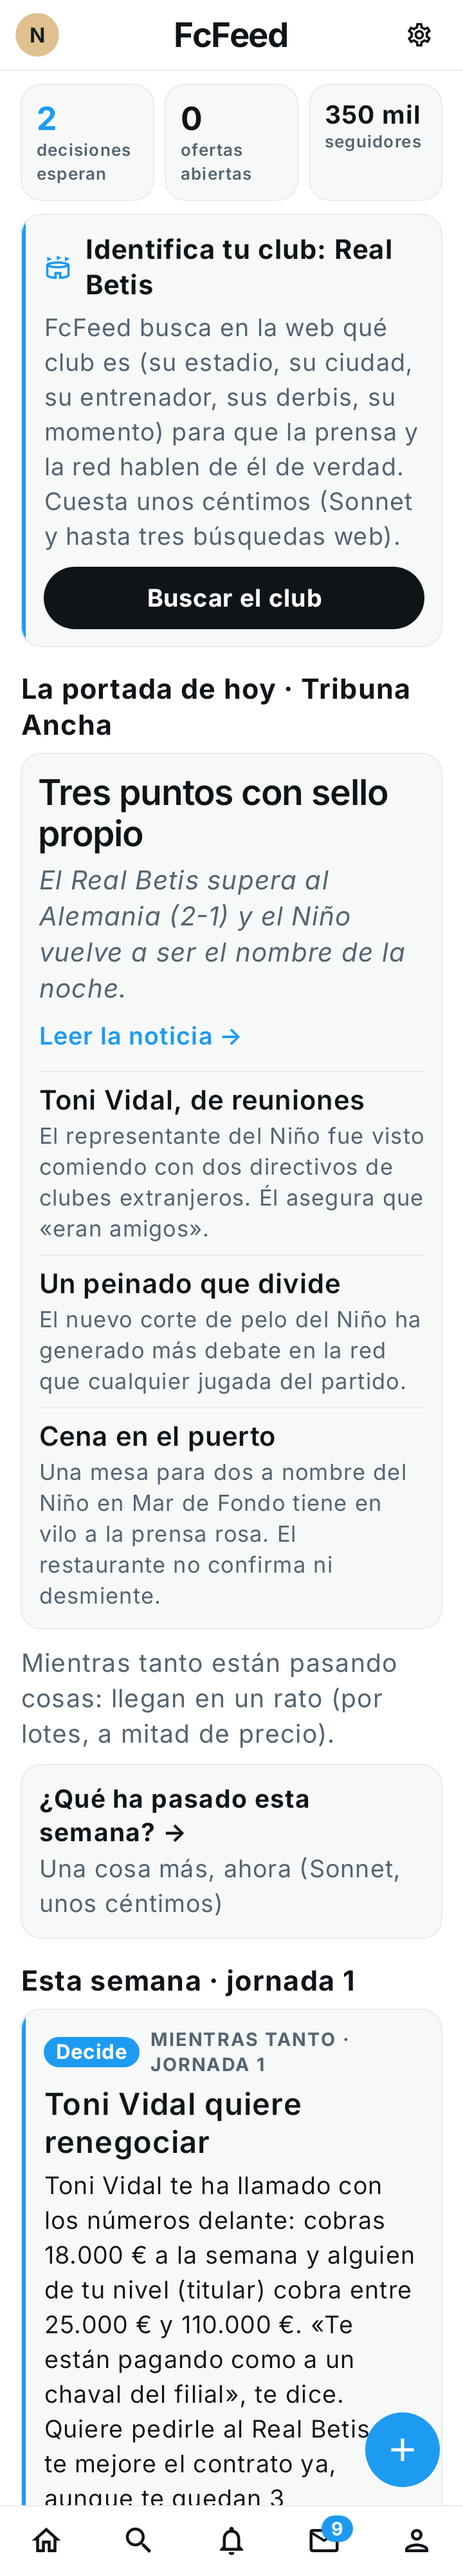
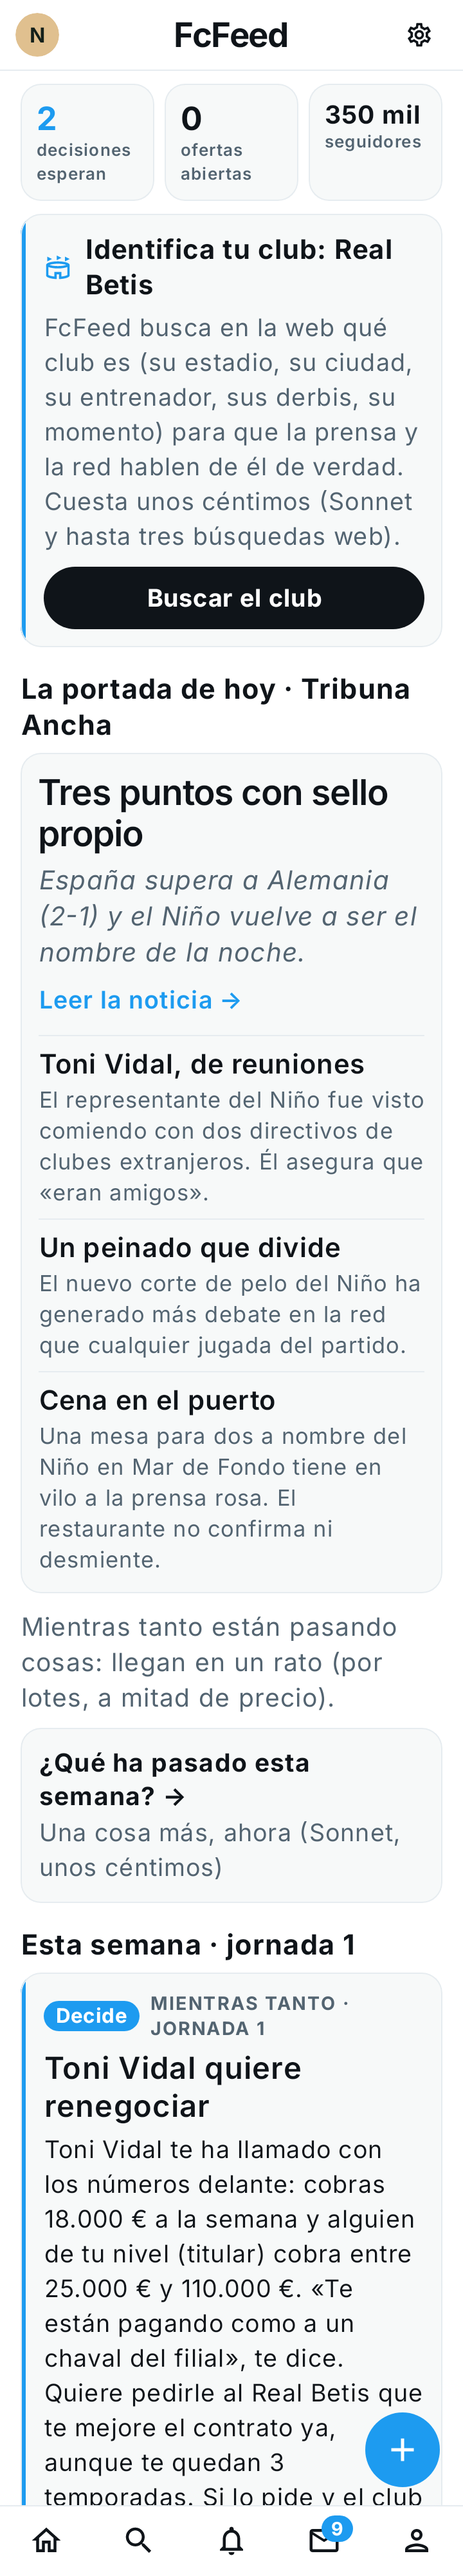
FcFeed 0.9.0: pujas entre empresas, solas entre jornadas
Con dos o más ofertas abiertas del mismo tipo, entre jornadas la que va
por detrás mejora, se mantiene o se retira (hasta 3 rondas, sin pasar
del tope del nivel). Sale como «Puja» en Inicio y en Ofertas la nueva
sustituye a la vieja. Sin IA. Modo prueba: sin artículo con selecciones.

Claude-Session: https://claude.ai/code/session_01Q4uywen3nuzUg5CTwJaCY5

Changed region(s): [[0.0306, 0.3125, 0.9167, 0.9688], [0.7639, 0.9375, 0.7944, 0.9688]]

diff --git a/shai/src/main/java/com/gonzalo/shai/Pujas.kt b/shai/src/main/java/com/gonzalo/shai/Pujas.kt
@@ -1,0 +1,97 @@
+package com.gonzalo.shai
+
+import kotlin.random.Random
+
+/**
+ * Las pujas (solas, sin botón): entre jornadas, si tienes abiertas dos o más ofertas del mismo tipo (dos marcas que te quieren de imagen,
+ * dos clubes que te quieren fichar), la que va por detrás mueve ficha: mejora la suya (más sueldo, más prima o un año más), se mantiene
+ * o se retira. Tú solo eliges. Como mucho [MAX_RONDAS] rondas por oferta y nunca por encima de lo que pide tu nivel ([Rangos]). Sin IA:
+ * no cuesta nada y sale también en el modo prueba.
+ */
+object Pujas {
+    const val MAX_RONDAS = 3
+    private val TIPOS = setOf("patrocinio", "traspaso", "cesion")
+
+    /** Las que compiten: abiertas, de un tipo que puja, agrupadas por tipo, con al menos dos de quien las hace distinto. */
+    fun grupos(entradas: List<Entrada>): List<List<Pair<Entrada, Oferta>>> {
+        val ocultas = entradas.flatMap { it.ofertas }.mapNotNull { it.antes.ifBlank { null } }.toSet()
+        return entradas.flatMap { e -> e.ofertas.map { e to it } }
+            .filter { (_, o) -> o.estado == Oferta.ABIERTA && o.tipo in TIPOS && o.id !in ocultas }
+            .groupBy { it.second.tipo }.values
+            .map { g -> g.distinctBy { Rangos.limpiaNombre(it.second.de).lowercase() } }
+            .filter { it.size >= 2 }
+    }
+
+    /**
+     * La puja de esta jornada (o null si no hay o nadie se mueve): una entrada «Puja» que sale entre jornadas ([visible]) con la oferta
+     * nueva de quien mejora o la retirada de quien se va. Las de antes cambian al salir ([aplica]).
+     */
+    fun calcula(u: Universo, entradas: List<Entrada>, ahora: Long, visible: Long, azar: Random = Random(u.id.hashCode() * 31 + u.paso)): Entrada? {
+        val g = grupos(entradas).firstOrNull() ?: return null
+        val ofertas = g.map { it.second }.sortedByDescending { it.valor }
+        val lider = ofertas.first()
+        val r = Rangos.de(u.nivelActual)
+        val topeSemana = if (lider.tipo == "patrocinio") r.patroSemana else r.sueldo.last
+        val topePrima = if (lider.tipo == "patrocinio") r.patroPrima else r.primaMax
+        // Se mueve la que va por detrás (la segunda); si ya ha pujado todas sus rondas, nadie
+        val otra = ofertas.drop(1).firstOrNull { it.ronda < MAX_RONDAS } ?: return null
+        val quien = Rangos.limpiaNombre(otra.de); val delLider = Rangos.limpiaNombre(lider.de)
+        val tiro = azar.nextDouble()
+        val enElTope = otra.salario >= topeSemana && otra.prima >= topePrima
+        return when {
+            // Se retira (más fácil cuanto más ha pujado ya o si ya no puede subir)
+            tiro < 0.18 + 0.12 * otra.ronda || enElTope -> {
+                val ret = otra.copy(id = Universo.nuevoId("o"), estado = Oferta.RETIRADA, antes = otra.id, ronda = otra.ronda + 1,
+                    texto = elige(azar, RETIRADAS).replace("{Q}", quien).replace("{L}", delLider))
+                Entrada(Universo.nuevoId("e"), u.id, TipoEntrada.PUJA, ahora, u.paso, "$quien se retira de la puja",
+                    "$quien no sigue: ${ret.texto} $delLider se queda sola y lo sabe.", ofertas = listOf(ret), visibleDesde = visible, aplicada = false)
+            }
+            // Se mantiene (esta jornada, nada)
+            tiro < 0.38 + 0.08 * otra.ronda -> null
+            // Mejora: pasa al líder (o se acerca), con sueldo, prima o años
+            else -> {
+                val sube = 1.06 + azar.nextDouble() * 0.16
+                val semana = redondea(maxOf(otra.salario.toDouble(), lider.salario * sube)).coerceAtMost(topeSemana)
+                val prima = redondea(maxOf(otra.prima.toDouble(), lider.prima * (1.0 + azar.nextDouble() * 0.2))).coerceAtMost(topePrima)
+                val anios = if (azar.nextDouble() < 0.25 && otra.anios in 1..4) otra.anios + 1 else otra.anios
+                if (semana <= otra.salario && prima <= otra.prima && anios == otra.anios) return null
+                val cambios = buildList {
+                    if (semana > otra.salario) add("${Formato.euros(semana)} a la semana")
+                    if (prima > otra.prima) add("${Formato.euros(prima)} de prima")
+                    if (anios > otra.anios) add("un año más")
+                }
+                val nueva = otra.copy(id = Universo.nuevoId("o"), salario = semana, prima = prima, anios = anios, antes = otra.id, ronda = otra.ronda + 1, estado = Oferta.ABIERTA,
+                    texto = "Mejora su oferta tras saber lo de $delLider: ${cambios.joinToString(", ").replaceFirstChar { it.lowercase() }}. " + elige(azar, FRASES).replace("{Q}", quien))
+                val titulo = elige(azar, TITULOS).replace("{Q}", quien).replace("{L}", delLider)
+                Entrada(Universo.nuevoId("e"), u.id, TipoEntrada.PUJA, ahora, u.paso, titulo,
+                    "Al enterarse de la oferta de $delLider, $quien ha mejorado la suya sin que nadie se lo pida: ${cambios.joinToString(", ")}. " +
+                        (if (nueva.valor > lider.valor) "Ahora es la mejor sobre la mesa." else "Aún no llega a la de $delLider, pero se acerca."),
+                    ofertas = listOf(nueva), visibleDesde = visible, aplicada = false)
+            }
+        }
+    }
+
+    /** Al salir la puja: la oferta de antes queda superada (la nueva ocupa su sitio) o retirada. Si ya la habías contestado, la puja no cuenta. */
+    fun aplica(e: Entrada, todas: List<Entrada>): Pair<Entrada, Entrada?>? {
+        if (e.tipo != TipoEntrada.PUJA) return null
+        val o = e.ofertas.firstOrNull { it.antes.isNotBlank() } ?: return null
+        val vieja = todas.firstOrNull { x -> x.ofertas.any { it.id == o.antes } } ?: return null
+        val antes = vieja.ofertas.first { it.id == o.antes }
+        if (antes.estado != Oferta.ABIERTA) return e.copy(ofertas = e.ofertas.map { if (it.estado == Oferta.ABIERTA) it.copy(estado = Oferta.MEJORADA) else it }) to null
+        return e to vieja.copy(ofertas = vieja.ofertas.map { if (it.id == o.antes) it.copy(estado = Oferta.MEJORADA) else it })
+    }
+
+    private fun redondea(x: Double): Long = when {
+        x >= 1_000_000 -> Math.round(x / 50_000) * 50_000
+        x >= 100_000 -> Math.round(x / 5_000) * 5_000
+        x >= 10_000 -> Math.round(x / 500) * 500
+        else -> Math.round(x / 100) * 100
+    }
+    private fun elige(azar: Random, l: List<String>) = l[azar.nextInt(l.size)]
+
+    private val TITULOS = listOf("{Q} contraataca", "{Q} sube la apuesta", "{Q} no se rinde", "Puja: {Q} responde a {L}", "{Q} mueve ficha")
+    private val FRASES = listOf("«No vamos a perderle por dinero», dicen en {Q}.", "En {Q} lo tienen claro: le quieren a él.",
+        "«Es nuestra prioridad», repiten en {Q}.", "En {Q} saben que hay otra puja y no quieren quedarse atrás.", "«Que lo piense, pero que no tarde», avisan desde {Q}.")
+    private val RETIRADAS = listOf("«No vamos a entrar en una guerra», dicen en {Q}.", "En {Q} creen que el precio ya no tiene sentido.",
+        "«Le deseamos lo mejor, pero hasta aquí», explica {Q}.", "{Q} ha encontrado otra opción y retira su oferta.")
+}

diff --git a/shai/src/main/java/com/gonzalo/shai/PantCarrera.kt b/shai/src/main/java/com/gonzalo/shai/PantCarrera.kt
@@ -274,6 +274,7 @@ private fun TabInicio(u: Universo, entradas: List<Entrada>, convs: List<Conversa
     val antes = entradas.filter { it.paso != u.paso && it.tipo != TipoEntrada.CHARLA }
     fun abre(e: Entrada): () -> Unit = {
         when {
+            e.tipo == TipoEntrada.PUJA -> alPestana(2)
             e.decision?.abierta == true -> alChat(chatDe(u, e.decision))
             e.dms.isNotEmpty() -> alChat(Gente.chatDe(u, e.dms.first()))
             e.posts.isNotEmpty() -> alPestana(0)
@@ -340,6 +341,7 @@ fun TarjetaEntrada(u: Universo, e: Entrada, expandida: Boolean = true, alRed: ()
         // A dónde ir desde aquí
         val enlaces = buildList {
             if (decide) add("Responder →" to alResponder)
+            if (e.tipo == TipoEntrada.PUJA) add("Ver las ofertas →" to alResponder)
             if (e.posts.isNotEmpty()) add("${e.posts.size} en la red →" to alRed)
             if (e.dms.isNotEmpty() && !decide) { val c = Gente.chatDe(u, e.dms.first()); add("${e.dms.size} mensaje${if (e.dms.size > 1) "s" else ""} →" to { alChat(c) }) }
         }
@@ -648,6 +650,7 @@ private fun TarjetaDecision(e: Entrada, d: Decision) {
 
 // ---------------------------------------------------------------- Ofertas
 
+@OptIn(androidx.compose.foundation.layout.ExperimentalLayoutApi::class)
 @Composable
 private fun TabOfertas(u: Universo, entradas: List<Entrada>) {
     val ambito = rememberCoroutineScope()
@@ -661,7 +664,10 @@ private fun TabOfertas(u: Universo, entradas: List<Entrada>) {
         }
     } ?: Tarjeta(bordeIzq = Acento) { TituloTarjeta("Eres agente libre"); TextoTarjeta("Cualquier club puede ficharte.", Modifier.padding(top = 2.dp)) }
     Nota("La app manda: si aceptas aquí, hazlo también en tu partida de FC.", Modifier.padding(top = 10.dp, bottom = 4.dp))
-    val todas = entradas.flatMap { e -> e.ofertas.map { e to it } }.filter { it.second.estado != Oferta.NEGOCIADA }
+    // (las superadas en una puja no salen: sale la nueva; tampoco las que ya tienen una nueva visible aunque la puja no se haya aplicado aún)
+    val superadas = entradas.flatMap { it.ofertas }.mapNotNull { it.antes.ifBlank { null } }.toSet()
+    val todas = entradas.flatMap { e -> e.ofertas.map { e to it } }.filter { it.second.estado != Oferta.NEGOCIADA && it.second.estado != Oferta.MEJORADA && it.second.id !in superadas }
+    val enPuja = Pujas.grupos(entradas).flatten().map { it.second.id }.toSet()
     if (todas.isEmpty()) { Nota("Ninguna oferta todavía. Ya llegarán.", Modifier.padding(top = 8.dp)); return }
     val abiertas = todas.filter { it.second.estado == Oferta.ABIERTA }
     val viejas = todas.filter { it.second.estado != Oferta.ABIERTA }
@@ -672,7 +678,10 @@ private fun TabOfertas(u: Universo, entradas: List<Entrada>) {
             Row(verticalAlignment = Alignment.CenterVertically) {
                 Avatar(Rangos.limpiaNombre(o.de), 46.dp); Spacer(Modifier.width(12.dp))
                 Column(Modifier.weight(1f)) {
-                    Sello(Oferta.TIPOS[o.tipo] ?: o.tipo)
+                    androidx.compose.foundation.layout.FlowRow(horizontalArrangement = Arrangement.spacedBy(6.dp), verticalArrangement = Arrangement.spacedBy(4.dp)) {
+                        Sello(Oferta.TIPOS[o.tipo] ?: o.tipo)
+                        if (o.id in enPuja) Sello(if (o.ronda > 0) "En puja · mejorada ${o.ronda}" else "En puja", Dorado)
+                    }
                     Text(Rangos.limpiaNombre(o.de), color = Charcoal, fontFamily = Display, fontWeight = FontWeight.SemiBold, fontSize = 22.sp, lineHeight = 26.sp, modifier = Modifier.padding(top = 4.dp))
                 }
             }
@@ -712,7 +721,7 @@ private fun TabOfertas(u: Universo, entradas: List<Entrada>) {
                 Text(Rangos.limpiaNombre(o.de), color = Charcoal, fontFamily = Body, fontWeight = FontWeight.Bold, fontSize = 15.sp, lineHeight = 19.sp)
                 Text(listOfNotNull(Oferta.TIPOS[o.tipo] ?: o.tipo, o.salario.takeIf { it > 0 }?.let { "${Formato.eurosCorto(it)}/semana" }).joinToString(" · "), color = Muted, fontFamily = Body, fontSize = 12.sp, lineHeight = 16.sp)
             }
-            Sello(if (o.estado == Oferta.ACEPTADA) "Aceptada" else "Rechazada", if (o.estado == Oferta.ACEPTADA) Acento else Muted)
+            Sello(when (o.estado) { Oferta.ACEPTADA -> "Aceptada"; Oferta.RETIRADA -> "Se retiró"; else -> "Rechazada" }, if (o.estado == Oferta.ACEPTADA) Acento else Muted)
         }
         Filete(1.dp, Line)
     }

diff --git a/shai/src/test/java/com/gonzalo/shai/PujasTest.kt b/shai/src/test/java/com/gonzalo/shai/PujasTest.kt
@@ -1,0 +1,60 @@
+package com.gonzalo.shai
+
+import org.junit.Assert.*
+import org.junit.Test
+import kotlin.random.Random
+
+/** Las pujas solas entre ofertas que compiten: mejoran, se retiran, no pasan del tope del nivel ni de tres rondas. */
+class PujasTest {
+    private val u = Ejemplo.universo().let { it.copy(fuera = it.fuera + (Fuera.FAMA to 45)) }   // titular
+    private val nova = Oferta("o1", "Nova Sport", "patrocinio", 20_000, 500_000, 3, "Nova quiere tu imagen.")
+    private val aurum = Oferta("o2", "Aurum Mobile", "patrocinio", 15_000, 300_000, 2, "Aurum también.")
+    private val e1 = Entrada("e1", u.id, TipoEntrada.EVENTO, 1, 1, ofertas = listOf(nova))
+    private val e2 = Entrada("e2", u.id, TipoEntrada.EVENTO, 2, 1, ofertas = listOf(aurum, Oferta("o3", "Villarreal CF", "traspaso", 40_000, 0, 4, "")))
+
+    private fun busca(f: (Entrada?) -> Boolean): Entrada? {
+        for (s in 0 until 500) { val r = Pujas.calcula(u, listOf(e1, e2), 10, 20, Random(s)); if (f(r)) return r }
+        fail("ninguna semilla da ese caso"); return null
+    }
+
+    @Test fun soloPujanLasDelMismoTipo() {
+        val g = Pujas.grupos(listOf(e1, e2))
+        assertEquals(1, g.size); assertEquals(setOf("o1", "o2"), g.first().map { it.second.id }.toSet())
+    }
+
+    @Test fun laQueVaDetrasMejoraSinPasarDelTope() {
+        val p = busca { it?.ofertas?.firstOrNull()?.estado == Oferta.ABIERTA }!!
+        val n = p.ofertas.first()
+        assertEquals(TipoEntrada.PUJA, p.tipo); assertEquals("o2", n.antes); assertEquals(1, n.ronda); assertEquals("Aurum Mobile", n.de)
+        assertTrue(n.salario >= aurum.salario && n.salario <= Rangos.de(Nivel.TITULAR).patroSemana)
+        assertTrue(n.prima <= Rangos.de(Nivel.TITULAR).patroPrima)
+        assertFalse(p.aplicada); assertEquals(20, p.visibleDesde)
+        // Al salir, la de antes queda superada
+        val (pe, vieja) = Pujas.aplica(p, listOf(e1, e2, p))!!
+        assertEquals(Oferta.MEJORADA, vieja!!.ofertas.first { it.id == "o2" }.estado)
+        assertEquals(Oferta.ABIERTA, pe.ofertas.first().estado)
+        // Y a la siguiente, puja la otra (la que ahora va por detrás) o nadie
+        val ronda2 = Pujas.grupos(listOf(e1, vieja, pe))
+        assertEquals(setOf("o1", n.id), ronda2.first().map { it.second.id }.toSet())
+    }
+
+    @Test fun seRetiraYAlSalirDejaDeEstarSobreLaMesa() {
+        val p = busca { it?.ofertas?.firstOrNull()?.estado == Oferta.RETIRADA }!!
+        assertTrue(p.titulo.contains("se retira"))
+        val (_, vieja) = Pujas.aplica(p, listOf(e1, e2, p))!!
+        assertEquals(Oferta.MEJORADA, vieja!!.ofertas.first { it.id == "o2" }.estado)
+        assertTrue(Pujas.grupos(listOf(e1, vieja, p)).isEmpty())
+    }
+
+    @Test fun siYaLaContestasteLaPujaNoCuenta() {
+        val p = busca { it?.ofertas?.firstOrNull()?.estado == Oferta.ABIERTA }!!
+        val contestada = e2.copy(ofertas = e2.ofertas.map { if (it.id == "o2") it.copy(estado = Oferta.RECHAZADA) else it })
+        val (pe, vieja) = Pujas.aplica(p, listOf(e1, contestada, p))!!
+        assertNull(vieja); assertEquals(Oferta.MEJORADA, pe.ofertas.first().estado)
+    }
+
+    @Test fun conTresRondasYaNoPuja() {
+        val cansada = e2.copy(ofertas = listOf(aurum.copy(ronda = Pujas.MAX_RONDAS)))
+        for (s in 0 until 50) assertNull(Pujas.calcula(u, listOf(e1, cansada), 10, 20, Random(s)))
+    }
+}

diff --git a/shai/src/main/java/com/gonzalo/shai/Prueba.kt b/shai/src/main/java/com/gonzalo/shai/Prueba.kt
@@ -88,7 +88,7 @@ class TransporteDePrueba(private val azar: kotlin.random.Random = kotlin.random.
     private class Datos(
         val nombre: String, val apodo: String, val club: String, val rival: String, val marcador: String, val resultado: Char?, val goles: Int, val asistencias: Int,
         val nota: String, val competicion: String, val local: Boolean, val gente: List<Pair<String, String>>, val nivel: Int, val seguidores: Long, val megusta: Long,
-        val sueldo: Long, val pendientes: Int, val mister: Boolean,
+        val sueldo: Long, val pendientes: Int, val mister: Boolean, val seleccion: Boolean = false,
     ) { val alias: String get() = apodo.ifBlank { nombre.substringBefore(' ') } }
 
     private fun cifra(t: String, unidad: String): Long {
@@ -117,7 +117,7 @@ class TransporteDePrueba(private val azar: kotlin.random.Random = kotlin.random.
         val mg = Regex("""unos ([\d.,]+)( M| mil)? me gusta""").find(t)?.let { cifra(it.groupValues[1], it.groupValues[2]) } ?: maxOf(12, seg / 60)
         val sueldo = Regex("""([\d.]+) € a la semana""").find(t)?.groupValues?.get(1)?.replace(".", "")?.toLongOrNull() ?: 5_000
         val pend = Regex("""DECISIONES PENDIENTES: (\d+)""").find(t)?.groupValues?.get(1)?.toIntOrNull() ?: 0
-        return Datos(nombre, apodo, club, rival, marcador, res, goles, asist, nota, comp, "En casa contra" in partido, gente, nivel, seg, mg, sueldo, pend, "- Entrenador:" in t)
+        return Datos(nombre, apodo, club, rival, marcador, res, goles, asist, nota, comp, "En casa contra" in partido, gente, nivel, seg, mg, sueldo, pend, "- Entrenador:" in t, seleccion != null)
     }
 
     // ---------------------------------------------------------------- rellenar los huecos
@@ -408,7 +408,13 @@ class TransporteDePrueba(private val azar: kotlin.random.Random = kotlin.random.
         }
         u.guarda()
         // «de el Niño» → «del Niño», «a el Niño» → «al Niño» (los apodos con artículo)
-        val limpio = Json.escribe(r).replace(Regex("""(?<!\p{L})([Dd])e el(?!\p{L})"""), "$1el").replace(Regex("""(?<!\p{L})([Aa]) el(?!\p{L})"""), "$1l")
+        var limpio = Json.escribe(r).replace(Regex("""(?<!\p{L})([Dd])e el(?!\p{L})"""), "$1el").replace(Regex("""(?<!\p{L})([Aa]) el(?!\p{L})"""), "$1l")
+        // Con la selección, sin artículo: «España supera a Alemania», no «El España supera al Alemania»
+        if (d.seleccion) listOf(d.club, d.rival).filter { it.isNotBlank() }.forEach { n ->
+            val q = Regex.escape(n)
+            limpio = limpio.replace(Regex("""(?<!\p{L})El $q"""), n).replace(Regex("""(?<!\p{L})el $q"""), n)
+                .replace(Regex("""(?<!\p{L})([Aa])l $q"""), "$1 $n").replace(Regex("""(?<!\p{L})([Dd])el $q"""), "$1e $n")
+        }
         return Json.escribe(mapOf("id" to "msg_prueba", "type" to "message", "role" to "assistant", "model" to c["model"].comoTexto(),
             "content" to listOf(mapOf("type" to "text", "text" to limpio)), "stop_reason" to "end_turn",
             "usage" to mapOf("input_tokens" to 0, "output_tokens" to 0, "cache_creation_input_tokens" to 0, "cache_read_input_tokens" to 0)))

diff --git a/shai/src/main/java/com/gonzalo/shai/Modelo.kt b/shai/src/main/java/com/gonzalo/shai/Modelo.kt
@@ -452,14 +452,22 @@ data class Prensa(
  */
 data class Oferta(val id: String, val de: String, val tipo: String, val salario: Long, val prima: Long, val anios: Int, val texto: String, val estado: String = ABIERTA,
                   /** Ya se pidió más una vez (no se puede volver a pedir). */
-                  val negociada: Boolean = false) {
-    fun aMapa(): Map<String, Any?> = mapOf("id" to id, "d" to de, "t" to tipo, "s" to salario, "p" to prima, "a" to anios.toLong(), "x" to texto, "e" to estado, "ng" to negociada)
+                  val negociada: Boolean = false,
+                  /** En una puja ([Pujas]): la oferta que esta mejora (o de la que se retira), y en qué ronda va. */
+                  val antes: String = "", val ronda: Int = 0) {
+    fun aMapa(): Map<String, Any?> = mapOf("id" to id, "d" to de, "t" to tipo, "s" to salario, "p" to prima, "a" to anios.toLong(), "x" to texto, "e" to estado, "ng" to negociada,
+        "an" to antes, "ro" to ronda.toLong())
+    /** Lo que vale entera (para comparar en una puja): lo de todas las semanas de sus años y la prima. */
+    val valor: Long get() = salario * 52 * maxOf(1, anios) + prima
     val cambiaDeClub: Boolean get() = tipo == "traspaso" || tipo == "cesion" || tipo == "banquillo"
     companion object {
         const val ABIERTA = "abierta"; const val ACEPTADA = "aceptada"; const val RECHAZADA = "rechazada"
         val TIPOS = mapOf("traspaso" to "Traspaso", "cesion" to "Cesión", "renovacion" to "Renovación", "patrocinio" to "Patrocinio", "banquillo" to "Banquillo")
         const val NEGOCIADA = "negociada"
-        fun de(m: Map<String, Any?>) = Oferta(m["id"].comoTexto(), m["d"].comoTexto(), m["t"].comoTexto(), m["s"].comoLong(), m["p"].comoLong(), m["a"].comoLong().toInt(), m["x"].comoTexto(), m["e"].comoTexto().ifBlank { ABIERTA }, m["ng"].comoBool())
+        /** En una puja: la otra la ha mejorado (sale la nueva) o se ha retirado. */
+        const val MEJORADA = "mejorada"; const val RETIRADA = "retirada"
+        fun de(m: Map<String, Any?>) = Oferta(m["id"].comoTexto(), m["d"].comoTexto(), m["t"].comoTexto(), m["s"].comoLong(), m["p"].comoLong(), m["a"].comoLong().toInt(), m["x"].comoTexto(), m["e"].comoTexto().ifBlank { ABIERTA }, m["ng"].comoBool(),
+            m["an"].comoTexto(), m["ro"].comoLong().toInt())
     }
 }
 
@@ -512,7 +520,7 @@ data class Efectos(val dinero: Long = 0, val fuera: Map<String, Int> = emptyMap(
 enum class TipoEntrada(val nombre: String) {
     PARTIDO("Partido"), EVENTO("Mientras tanto"), RESPUESTA("Lo que pasó después"), OFICIAL("Oficial"), INICIO("El principio"),
     TEMPORADA("Fin de temporada"), SINCONTESTAR("No contestaste"), HITO("Hito"), RECORD("Récord histórico"), RIVAL("Rivalidad"),
-    CHARLA("Charla"), PUERTA("Fuera de tu vida"), GENTE("Gente nueva"), HISTORICO("Hecho histórico"),
+    CHARLA("Charla"), PUERTA("Fuera de tu vida"), GENTE("Gente nueva"), HISTORICO("Hecho histórico"), PUJA("Puja"),
 }
 
 /**

diff --git a/shai/src/main/java/com/gonzalo/shai/Motor.kt b/shai/src/main/java/com/gonzalo/shai/Motor.kt
@@ -133,12 +133,23 @@ object Motor {
         e = r.first
         // El contrato: si toca hablar de renovar, el club (o tu representante) mueve ficha
         runCatching { revisaContrato(universo) }
+        // Las pujas entre las ofertas que compiten (sin IA): salen entre jornadas
+        runCatching { puja(universo) }
         if (e.pendiente.isEmpty()) {
             runCatching { mandaEventos(Carreras.de(universo) ?: u) }
             if (u.paso % CADA_MEMORIA == 0) runCatching { recuerda(universo) }
         }
         e to r.second
     } }
+
+    /** La puja de esta jornada entre las ofertas que compiten ([Pujas]), si toca y no hay otra por salir. Sale entre jornadas. */
+    fun puja(universo: String): Entrada? {
+        val u = Carreras.de(universo) ?: return null
+        if (Carreras.entradasDe(universo, todas = true).any { it.tipo == TipoEntrada.PUJA && !it.aplicada }) return null
+        val ahora = reloj()
+        val e = Pujas.calcula(u, Carreras.entradasDe(universo, ahora = ahora), ahora, if (Prueba.activo) ahora else ahora + separacion / 2) ?: return null
+        return Carreras.guarda(e)
+    }
 
     /** Los rivales tras el partido: cambian con los choques y, si nace uno, sale como «Rivalidad» (la prensa y la red lo cuentan). */
     private fun rivales(u0: Universo): Universo {
@@ -387,7 +398,9 @@ object Motor {
         val salen = ArrayList<Entrada>()
         for (u0 in Carreras.todas().filter { universo == null || it.id == universo }) {
             var u = u0
-            Carreras.entradasDe(u.id, todas = true, ahora = ahora).filter { !it.aplicada && (forzar || it.visible(ahora)) }.sortedBy { it.visibleDesde }.forEach { e ->
+            Carreras.entradasDe(u.id, todas = true, ahora = ahora).filter { !it.aplicada && (forzar || it.visible(ahora)) }.sortedBy { it.visibleDesde }.forEach { e0 ->
+                // Una puja: la oferta de antes queda superada o retirada (si aún estaba abierta)
+                val e = Pujas.aplica(e0, Carreras.entradasDe(u.id, todas = true, ahora = ahora))?.let { (pe, vieja) -> vieja?.let { Carreras.guarda(it) }; pe } ?: e0
                 val ef = Vida.recorta(u, e.efectos)
                 u = Vida.aplica(u, e.efectos)
                 salen += Carreras.guarda(e.copy(aplicada = true, efectos = ef, visibleDesde = minOf(e.visibleDesde, ahora)))

diff --git a/shai/src/test/java/com/gonzalo/shai/CapturasHechoTest.kt b/shai/src/test/java/com/gonzalo/shai/CapturasHechoTest.kt
@@ -50,6 +50,7 @@ abstract class CapturasHechoBase {
                             3 -> PantCarrera(u0.id, {}, {}, {}, inicial = 1)
                             5 -> PantNueva({}, {})
                             6 -> PantPartido(u0.id, {}, {}, comoInicial = 0)
+                            7 -> PantCarrera(u0.id, {}, {}, {}, inicial = 2)
                             4 -> PaginaRevista { Carreras.entradasDe(u0.id).first { it.tipo == TipoEntrada.HISTORICO }.let { EdicionEspecial(Carreras.de(u0.id)!!, it, abierta0 = true, {}, {}) } }
                         }
                     }
@@ -67,6 +68,17 @@ abstract class CapturasHechoBase {
         Motor.partido(u0.id, Partido("2026/27", "Mundial 2026", "Alemania", true, 2, 1, 90, 1, 0, 8.4, fecha = "2026-07-04"))
         cual = 6; foto("s2-partido-seleccion")
         cual = 3; foto("s3-inicio-tras-mundial")
+        // Una puja entre dos marcas: Aurum mejora sola entre jornadas
+        val uu = Carreras.de(u0.id)!!
+        val ofs = Carreras.guarda(Entrada(Universo.nuevoId("e"), uu.id, TipoEntrada.EVENTO, System.currentTimeMillis(), uu.paso, "Dos marcas te quieren", ofertas = listOf(
+            Oferta("pn", "Nova Sport", "patrocinio", 20_000, 500_000, 3, "La marca deportiva Nova Sport quiere hacerte su cara joven con un contrato de imagen de tres años."),
+            Oferta("pa", "Aurum Mobile", "patrocinio", 15_000, 300_000, 2, "La tecnológica Aurum Mobile te propone un patrocinio de dos años para una campaña global."))))
+        val ahora = System.currentTimeMillis()
+        val pj = (0 until 300).asSequence().mapNotNull { Pujas.calcula(Carreras.de(u0.id)!!, Carreras.entradasDe(u0.id), ahora, ahora, kotlin.random.Random(it)) }
+            .first { it.ofertas.first().estado == Oferta.ABIERTA }
+        Carreras.guarda(pj); Motor.revela(u0.id, forzar = true)
+        cual = 7; foto("p1-ofertas-puja")
+        cual = 3; foto("p2-inicio-puja")
         ClaveApi.fija = null; Gasto.mesFijo = null
     }
 }

diff --git a/shai/src/main/java/com/gonzalo/shai/PantAjustes.kt b/shai/src/main/java/com/gonzalo/shai/PantAjustes.kt
@@ -24,7 +24,7 @@ import kotlinx.coroutines.Dispatchers
 import kotlinx.coroutines.launch
 import kotlinx.coroutines.withContext
 
-const val VERSION = "0.8.1"
+const val VERSION = "0.9.0"
 
 /** «Ajustes»: Aspecto · IA · Actualizar. Todo se guarda en este móvil. */
 @Composable

diff --git a/docs/fcfeed/HISTORIA.md b/docs/fcfeed/HISTORIA.md
@@ -5,6 +5,16 @@ los mensajes, la prensa, las ofertas, la vida, el dinero), con Claude y tu clave
 siempre: se instala encima). Icono: un bocadillo blanco con un balón, sobre negro (`herramientas/apartes/iconos.py`).
 **No es de la familia** desde la 0.6.0 (antes se llamaba Shai): sin cuenta, sin revista; todo se guarda en el móvil.
 
+## 0.9.0
+
+- **Pujas entre empresas (solas, sin botón).** Si tienes abiertas dos o más ofertas del mismo tipo (dos marcas que te quieren de imagen,
+  dos clubes que te quieren fichar o ceder), entre jornadas la que va por detrás mueve ficha: mejora la suya (sueldo, prima o un año más)
+  pasando a la otra o acercándose, se mantiene o se retira. Sale como «Puja» en Inicio («Aurum Mobile mueve ficha», con «Ver las
+  ofertas →»); en Ofertas, la nueva sustituye a la de antes, marcada «En puja · mejorada N», y la que se retira pasa a «Ya respondidas»
+  como «Se retiró». Como mucho 3 rondas por oferta, nunca por encima de lo que pide tu nivel, y si ya la habías contestado, la puja no
+  cuenta. Sin IA: no cuesta nada y funciona igual en el modo prueba (`Pujas.kt`).
+- Modo prueba: con la selección, «España supera a Alemania» (antes «El España supera al Alemania»).
+
 ## 0.8.1
 
 - **Con la selección, no con el club.** Si en el partido pones una competición de selecciones («Selección», «Mundial 2026», «Eurocopa»,
